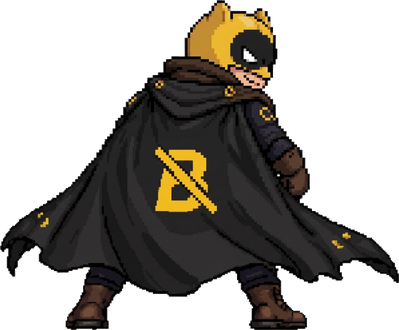
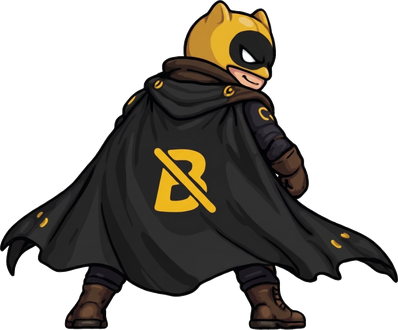
feat: 차단페이지 벡터 망토, 대시보드 클래식 밴 적용 및 불필요 에셋 정리, 실행창 등록버튼 블랙/옐로우 테마 적용

diff --git a/popup/popup.css b/popup/popup.css
@@ -354,33 +354,50 @@ textarea:focus {
 
 .btn {
   flex: 1;
-  padding: 9px 12px;
-  border: none;
+  padding: 8px 12px;
   border-radius: 6px;
   font-size: 12px;
-  font-weight: 600;
+  font-weight: 700;
   cursor: pointer;
   transition: all 0.15s ease;
   white-space: nowrap;
+  display: inline-flex;
+  align-items: center;
+  justify-content: center;
 }
 
 .btn-primary {
-  background-color: #e53e3e;
-  color: #ffffff;
+  background-color: #121316;
+  color: #facc15;
+  border: 1.5px solid #facc15;
+  box-shadow: 0 1px 3px rgba(0, 0, 0, 0.25);
 }
 
 .btn-primary:hover {
-  background-color: #c53030;
+  background-color: #1a120b;
+  border-color: #ea580c;
+  color: #fb923c;
+  box-shadow: 0 0 6px rgba(234, 88, 12, 0.35);
+}
+
+.btn-primary:active {
+  background-color: #150908;
+  border-color: #7f1d1d;
+  color: #991b1b;
+  box-shadow: inset 0 1px 2px rgba(0, 0, 0, 0.5);
+  transform: scale(0.98);
 }
 
 .btn-secondary {
   background-color: #e2e8f0;
   color: #4a5568;
+  border: 1.5px solid #cbd5e0;
   flex: 0.5;
 }
 
 .btn-secondary:hover {
   background-color: #cbd5e0;
+  color: #2d3748;
 }
 
 .status-msg {

diff --git a/pages/blocked.css b/pages/blocked.css
@@ -38,7 +38,6 @@ body {
 .banman-cape-sprite {
   height: 165px;
   object-fit: contain;
-  image-rendering: pixelated;
   animation: hero-idle 3s ease-in-out infinite;
   filter: drop-shadow(0 10px 22px rgba(0, 0, 0, 0.22));
 }
